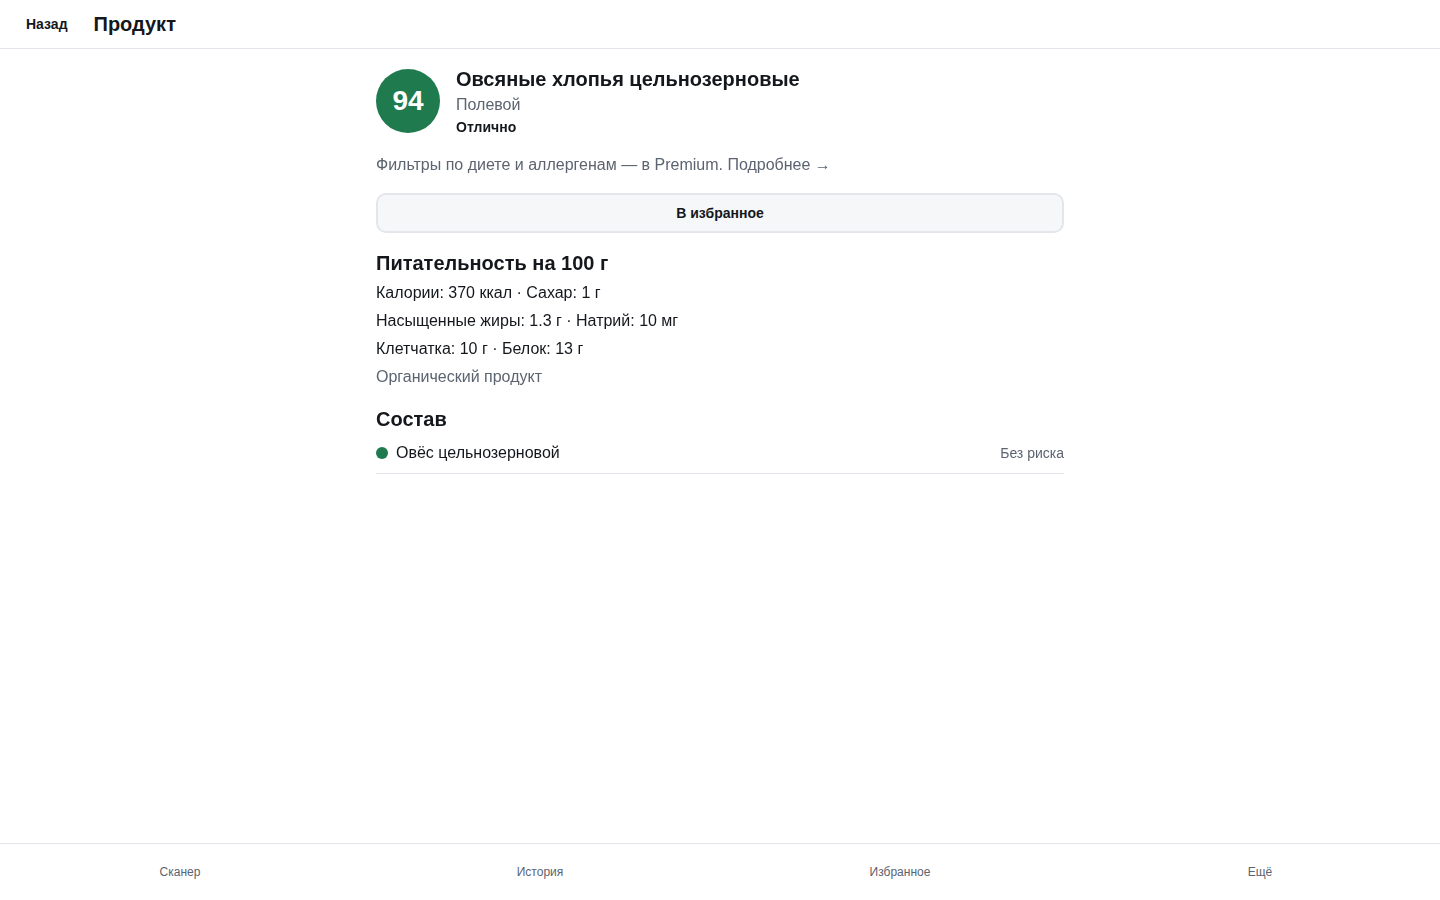
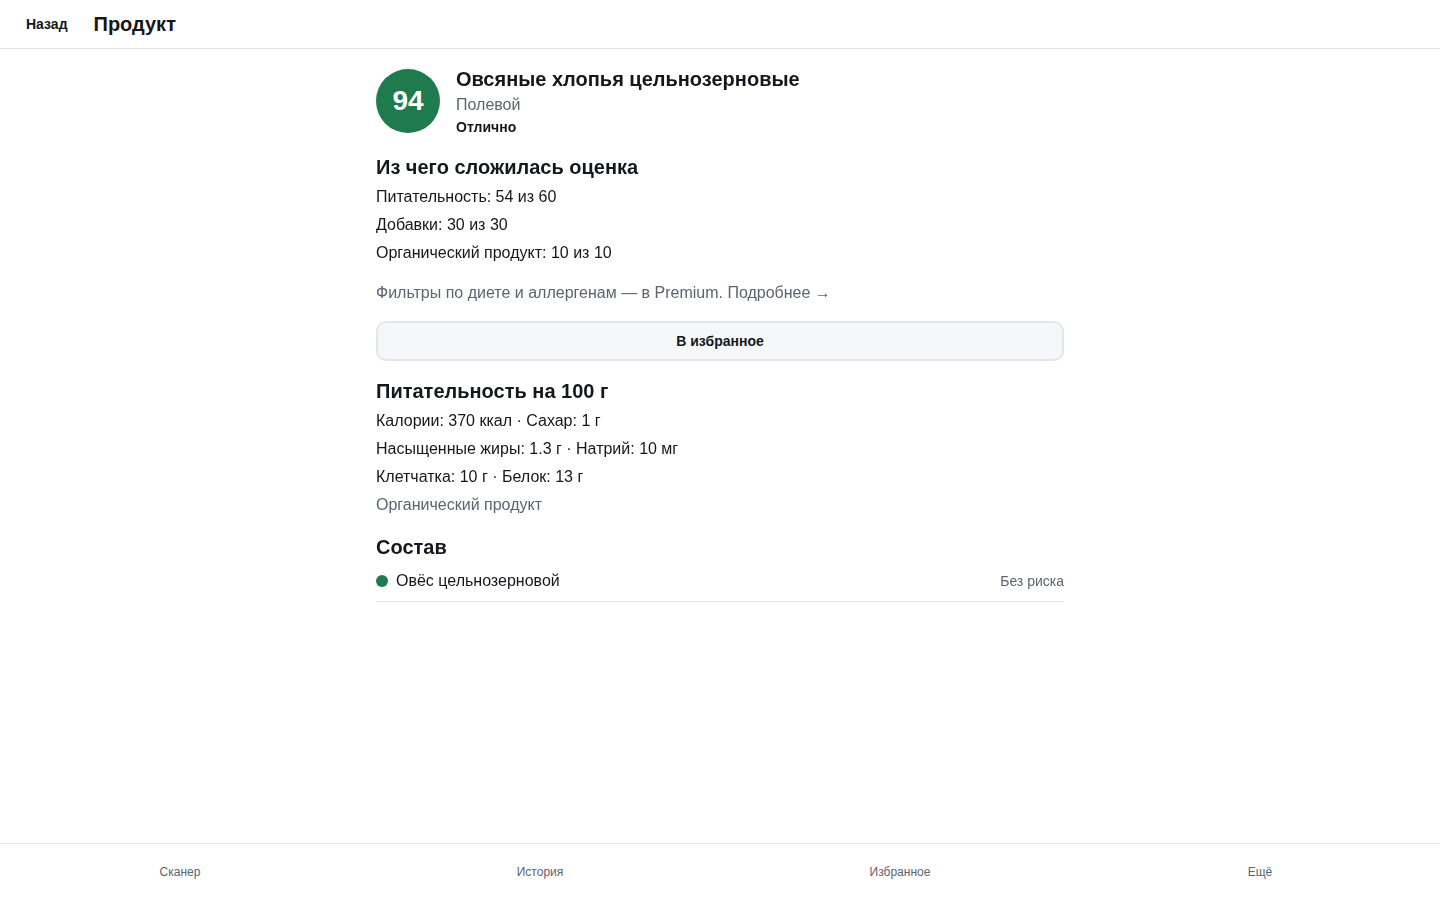
Show score breakdown on product card
Claude-Session: https://claude.ai/code/session_018Zm1dfvRDKoy8ZCUJZtuAb

diff --git a/app/src/screens/ProductScreen.tsx b/app/src/screens/ProductScreen.tsx
@@ -2,6 +2,7 @@ import React, { useCallback, useEffect, useState } from 'react';
 import { ScrollView, View, Text, Pressable } from 'react-native';
 import { data } from '../data';
 import { Preferences, ScoredProduct, Risk } from '../types';
+import { breakdown } from '../scoring';
 import { Body, Button, ErrorState, Heading, ScoreBadge, Skeleton, Screen, t } from '../ui/primitives';
 import { ProductCard } from '../ui/ProductCard';
 import { color, radius, space, scoreWord } from '../theme';
@@ -94,7 +95,13 @@ export function ProductScreen({ code, premium, onOpen, onAdd, onPaywall }: Props
             <Text style={[t.sm, { color: color.text, fontWeight: '600' }]}>{scoreWord[p.color]}</Text>
           </View>
         </View>
-        {p.capped ? <Body muted>Оценка ограничена: в составе есть вещество с высоким риском.</Body> : null}
+        <View accessibilityLabel="Из чего сложилась оценка" style={{ gap: space[1] }}>
+          <Heading>Из чего сложилась оценка</Heading>
+          {breakdown(p).map((b) => (
+            <Body key={b.label}>{b.label}: {b.points} из {b.max}</Body>
+          ))}
+          {p.capped ? <Body muted>Оценка ограничена до 49: в составе есть вещество с высоким риском.</Body> : null}
+        </View>
         {al.map((a) => (
           <View key={a} accessibilityRole="alert" style={{ backgroundColor: color.surface, borderColor: color.danger, borderWidth: 1, borderRadius: radius.md, padding: space[3] }}>
             <Text style={[t.sm, { color: color.danger, fontWeight: '600' }]}>{a}</Text>

diff --git a/app/tests/scoring.test.ts b/app/tests/scoring.test.ts
@@ -1,6 +1,6 @@
 import { test } from 'node:test';
 import assert from 'node:assert/strict';
-import { scoreProduct, colorFor } from '../src/scoring';
+import { scoreProduct, colorFor, breakdown } from '../src/scoring';
 import { Product } from '../src/types';
 import { seedProducts } from '../src/data/seed';
 
@@ -46,4 +46,10 @@ test('cosmetics: worst ingredient drives the result, no ingredients is clean', (
 test('alternatives logic input: bad seed product scores below its alternatives', () => {
   const bad = seedProducts.find((p) => p.id === 'p3')!; const good = seedProducts.find((p) => p.id === 'p1')!;
   assert.ok(scoreProduct(bad).score < scoreProduct(good).score);
+});
+
+test('breakdown parts add up to the uncapped score for food', () => {
+  const p = seedProducts.find((x) => x.id === 'p2')!;
+  const sum = breakdown(p).reduce((a, b) => a + b.points, 0);
+  assert.ok(Math.abs(sum - scoreProduct(p).score) <= 1, `${sum} vs ${scoreProduct(p).score}`);
 });

diff --git a/app/src/scoring.ts b/app/src/scoring.ts
@@ -39,6 +39,18 @@ export function colorFor(score: number): ScoreResult['color'] {
   return 'red';
 }
 
+/** What each part contributed, in points of the final 0-100 score. Shown on the product card. */
+export function breakdown(p: Product): { label: string; points: number; max: number }[] {
+  if (p.type === 'food') {
+    return [
+      { label: 'Питательность', points: Math.round(0.6 * nutritionScore(p)), max: 60 },
+      { label: 'Добавки', points: Math.round(0.3 * additivesScore(p)), max: 30 },
+      { label: 'Органический продукт', points: p.organic ? 10 : 0, max: 10 },
+    ];
+  }
+  return [{ label: 'Состав', points: additivesScore(p), max: 100 }];
+}
+
 export function scoreProduct(p: Product): ScoreResult {
   const hasHigh = p.ingredients.some((i) => i.risk === 'high');
   let score: number;
